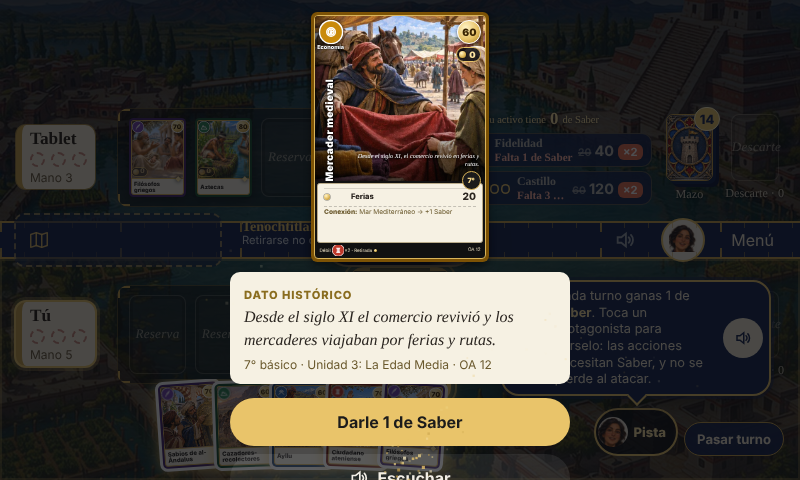
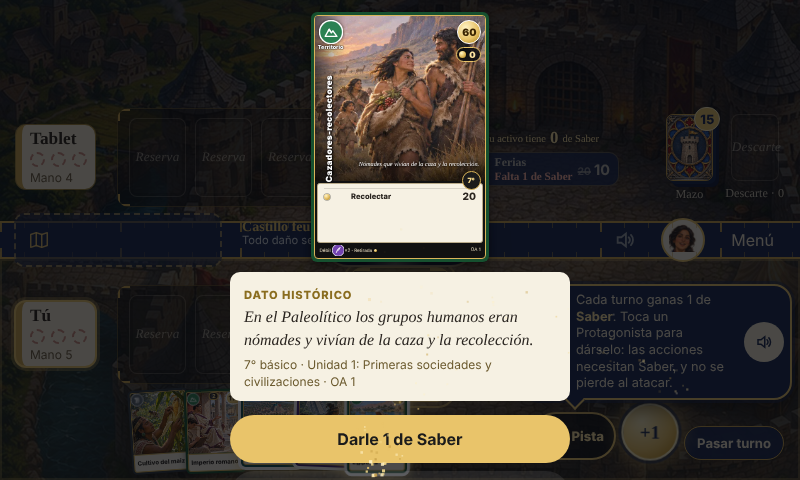
Vista del jugador: orbe de Saber que se toca o se arrastra
Claude-Session: https://claude.ai/code/session_01ComD2599uJSF8ok9LYXvic

diff --git a/js/ui/mesa.js b/js/ui/mesa.js
@@ -336,6 +336,15 @@ export async function montarMesa(contenedor, opciones) {
       });
     });
 
+    // El orbe de Saber (vista del jugador) se suelta sobre un Protagonista propio.
+    const orbe = lado.querySelector('.orbe-saber');
+    if (orbe) hacerArrastrable(orbe, {
+      girado: girado(j),
+      objetivos: () => validas().filter(v => v.tipo === 'asignarSaber')
+        .map(v => ({ el: lado.querySelector(`.campo [data-uid="${CSS.escape(v.destino)}"]`), accion: v })).filter(o => o.el),
+      alSoltar: accion => jugar(accion),
+    });
+
     lado.querySelectorAll('.reserva [data-uid]').forEach(el => {
       hacerArrastrable(el, {
         girado: girado(j),
@@ -677,7 +686,19 @@ export async function montarMesa(contenedor, opciones) {
     if (estado.fase !== 'turno' && botonera.children.length) controles.appendChild(botonera);
     if (esMiTurno && humano) {
       const validas = jugadasValidas(estado);
-      if (estado.fase === 'turno' && yo.saberPendiente > 0) controles.appendChild(h('div', 'pista pista-saber', `<span class="pip"></span> Ganaste 1 de Saber este turno: toca un Protagonista para dárselo`));
+      if (estado.fase === 'turno' && yo.saberPendiente > 0) {
+        if (disposicionDeMesa(config) === 'jugador') {
+          // Vista del jugador: el Saber del turno es un orbe que se arrastra (o se toca) hasta un Protagonista.
+          const orbe = h('button', 'orbe-saber', '<span class="pip"></span><b>+1</b>');
+          orbe.setAttribute('aria-label', 'Saber de este turno: arrástralo o toca un Protagonista para dárselo');
+          orbe.onclick = () => {
+            const sugerida = validas.find(v => v.tipo === 'asignarSaber' && yo.activo && v.destino === yo.activo.uid) || validas.find(v => v.tipo === 'asignarSaber');
+            hablar(j, { clave: 'saber', expresion: 'explica', jugada: sugerida,
+              texto: 'Cada turno ganas 1 de <b>Saber</b>. Arrástralo hasta un Protagonista, o tócalo: las acciones necesitan Saber.' }, { auto: true });
+          };
+          controles.appendChild(orbe);
+        } else controles.appendChild(h('div', 'pista pista-saber', `<span class="pip"></span> Ganaste 1 de Saber este turno: toca un Protagonista para dárselo`));
+      }
       if (estado.fase === 'preparacion') {
         const listo = validas.find(v => v.tipo === 'listo');
         // Desactivado, el botón dice qué falta en vez de solo apagarse.

diff --git a/css/estilos.css b/css/estilos.css
@@ -1106,3 +1106,13 @@ body:not([data-vista="mesa"]) { background: radial-gradient(ellipse at 20% 0%, #
 .modo-escuela .mano .carta-mini.sugerida { animation: none; box-shadow: 0 0 0 4px #7FD1FF; }
 .modo-escuela .carta-mini.pide-saber, .modo-escuela .pista-saber { animation: none; box-shadow: 0 0 0 3px #E9C46A; }
 .modo-escuela .aura { animation: none; }
+
+/* Orbe de Saber (vista del jugador): el Saber del turno, para arrastrar hasta un Protagonista. */
+.orbe-saber { position: relative; width: 56px; height: 56px; border-radius: 50%; display: grid; place-items: center; padding: 0; color: #17264F;
+  background: radial-gradient(circle at 35% 30%, #FFF3C4, #E9C46A 55%, #B9850F); border: 2px solid #FFF3C4;
+  box-shadow: 0 0 0 3px rgba(23,38,79,.6), 0 0 18px 4px rgba(233,196,106,.55); touch-action: none; animation: orbe-late 2.2s ease-in-out infinite; }
+.orbe-saber .pip { display: none; }
+.orbe-saber b { font-family: var(--serif, Georgia, serif); font-size: 1.15rem; }
+@keyframes orbe-late { 50% { transform: scale(1.07); } }
+.modo-escuela .orbe-saber { animation: none; }
+@media (prefers-reduced-motion: reduce) { .orbe-saber { animation: none; } }

diff --git a/sw.js b/sw.js
@@ -1,7 +1,7 @@
 // Service worker de Cronocartas: guarda la app en la tablet para jugar sin internet.
 // Al publicar una mejora, sube VERSION y agrega aquí los archivos nuevos
 // (la prueba tests/sw.test.js avisa si falta alguno).
-const VERSION = 'cc-v70';
+const VERSION = 'cc-v71';
 const ARCHIVOS = [
   "./",
   "audio/ambientes/CC-5-U1-007.ogg",
@@ -544,7 +544,7 @@ const HUELLAS = {
   "audio/sfx/viaje.ogg": "aab7115984b2",
   "audio/sfx/victoria.ogg": "a4a5c41a13af",
   "audio/tema/inicio.ogg": "939b0d467795",
-  "css/estilos.css": "4c7885b96be0",
+  "css/estilos.css": "a87d7ff7a93a",
   "data/ambientes.json": "963d06be0a1d",
   "data/arte.json": "305fc8be9797",
   "data/aula.json": "9c4641e855c6",
@@ -836,7 +836,7 @@ const HUELLAS = {
   "js/ui/editor.js": "efdd01cbbe7b",
   "js/ui/efectos.js": "061784a3eba9",
   "js/ui/guia.js": "c9e972efcd9f",
-  "js/ui/mesa.js": "03777d11772b",
+  "js/ui/mesa.js": "260545144b17",
   "js/ui/sonido.js": "fe2c462d22fa",
   "js/ui/tiempo.js": "bc9280b1562f",
   "js/ui/torneo.js": "306ece57a0cc",

diff --git a/tests/disposicion.test.js b/tests/disposicion.test.js
@@ -14,3 +14,9 @@ test('cara a cara (también en el torneo) usa la mesa dividida', () => {
 test('la mesa marca la vista del jugador con una clase', () => {
   assert.match(readFileSync('js/ui/mesa.js', 'utf8'), /classList\.toggle\('vista-jugador', disposicionDeMesa\(config\) === 'jugador'\)/);
 });
+
+test('en la vista del jugador, el Saber del turno es un orbe que se toca o se arrastra a un Protagonista', () => {
+  const mesa = readFileSync('js/ui/mesa.js', 'utf8');
+  assert.match(mesa, /'orbe-saber'/);
+  assert.match(mesa, /hacerArrastrable\(orbe,[\s\S]{0,400}asignarSaber/);
+});
